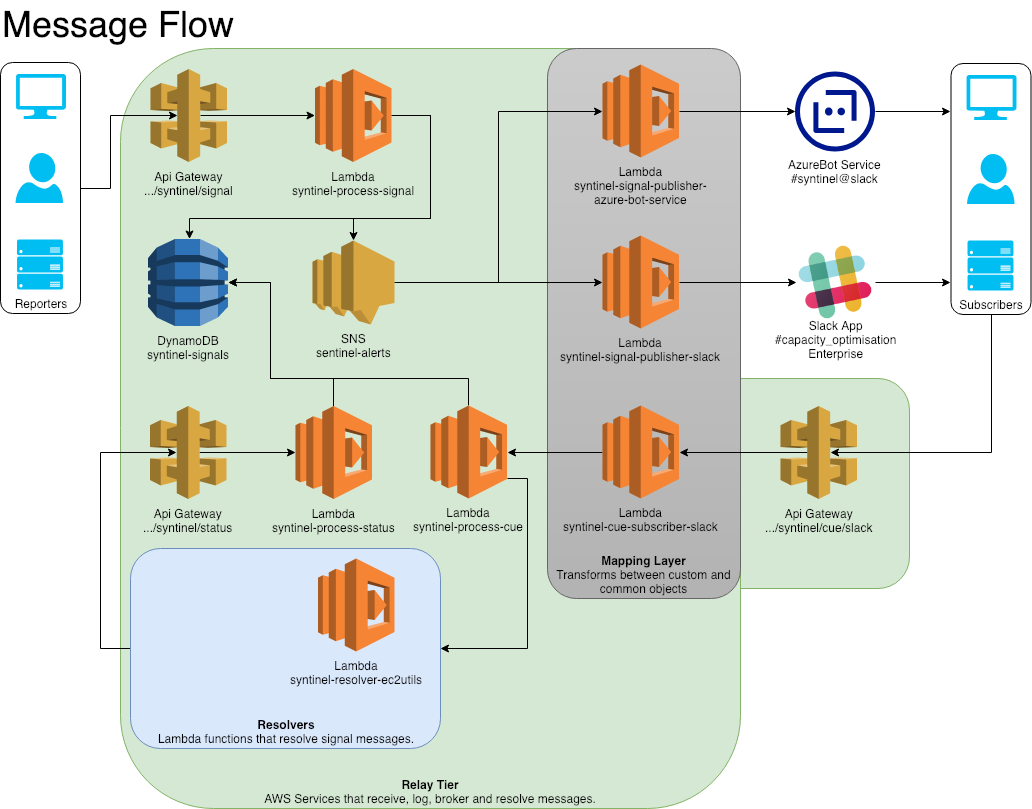
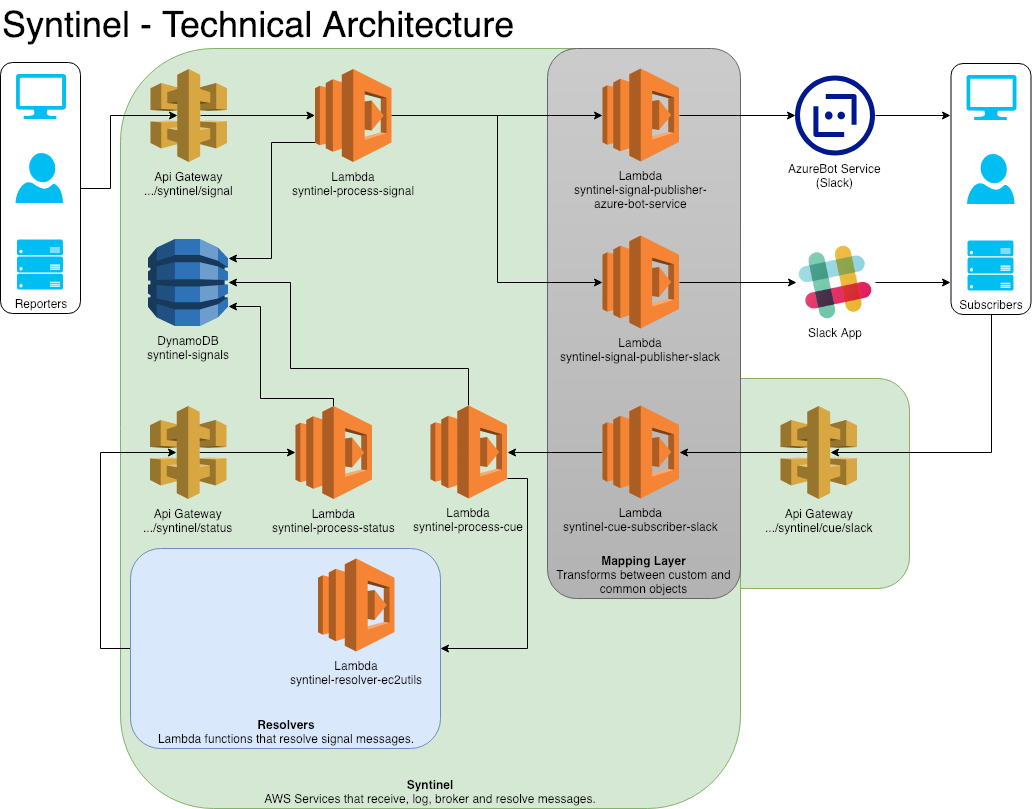
- Updated Technical Architecture diagram - Added "reporterId" to signal json schema - Added logging of sent messages, removed SNS calls.

diff --git a/scripts/Relay Tier/syntinel-process-signal.py b/scripts/Relay Tier/syntinel-process-signal.py
@@ -4,6 +4,7 @@ import json
 import boto3
 import time
 import random
+import os
 
 def lambda_handler(event, context):
 
@@ -12,7 +13,12 @@ def lambda_handler(event, context):
     # Retrieve Reporter Record
     reporterId = event.get('reporterId')
     if not reporterId:
-        raise Exception("No Reporter Id Was Specified.")
+        try:
+            reporterId = os.environ['DefaultReporterId']
+            print("Reporter Id Not Specified.  Using Default Id [", reporterId, "]" )
+        except:
+            raise Exception("No Reporter Id Was Specified.")
+            
     db = boto3.resource('dynamodb', region_name='us-east-1')
     reporterTable = db.Table('syntinel-reporters')
     reporter = reporterTable.get_item(Key={'_id': reporterId}).get('Item')
@@ -40,18 +46,10 @@ def lambda_handler(event, context):
 
         # Invoke Lambda Function
         lam = boto3.client('lambda')
+        print(messageId, "Signal Sent :", lambdaName, "-", channel.get('name'))
         rc = lam.invoke(FunctionName=lambdaName, InvocationType='Event', Payload=json.dumps(lambdaRecord))
 
-    # Put Signal Onto SNS Topic
-#    sns = boto3.client('sns')
-#    topic_arn = 'arn:aws:sns:us-east-1:121808128646:syntinel-alerts'
-#    snsReply = sns.publish(TopicArn=topic_arn, Message=json.dumps(dbRecord), Subject='Syntinel Signal Received')
-
-#    snsMessageId = snsReply['MessageId']
-#    snsRequestId = snsReply['ResponseMetadata']['RequestId']
-
-    # Update Signal Record With SNS Info
-    addlInfo = { '_status': 'Sent', '_trace': { ts : "Hello World" } }
+    addlInfo = { '_status': 'Sent' }
     dbRecord.update(addlInfo)
     table.put_item(Item=dbRecord)
     
